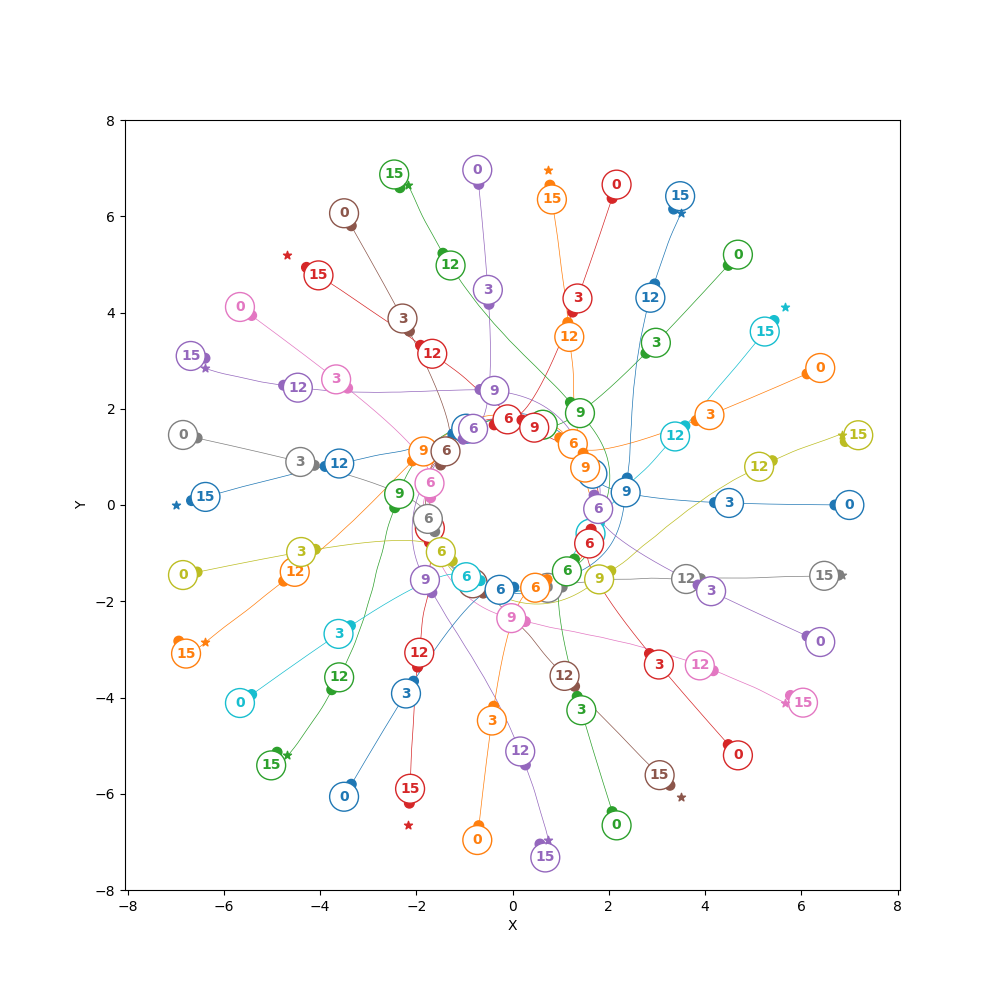
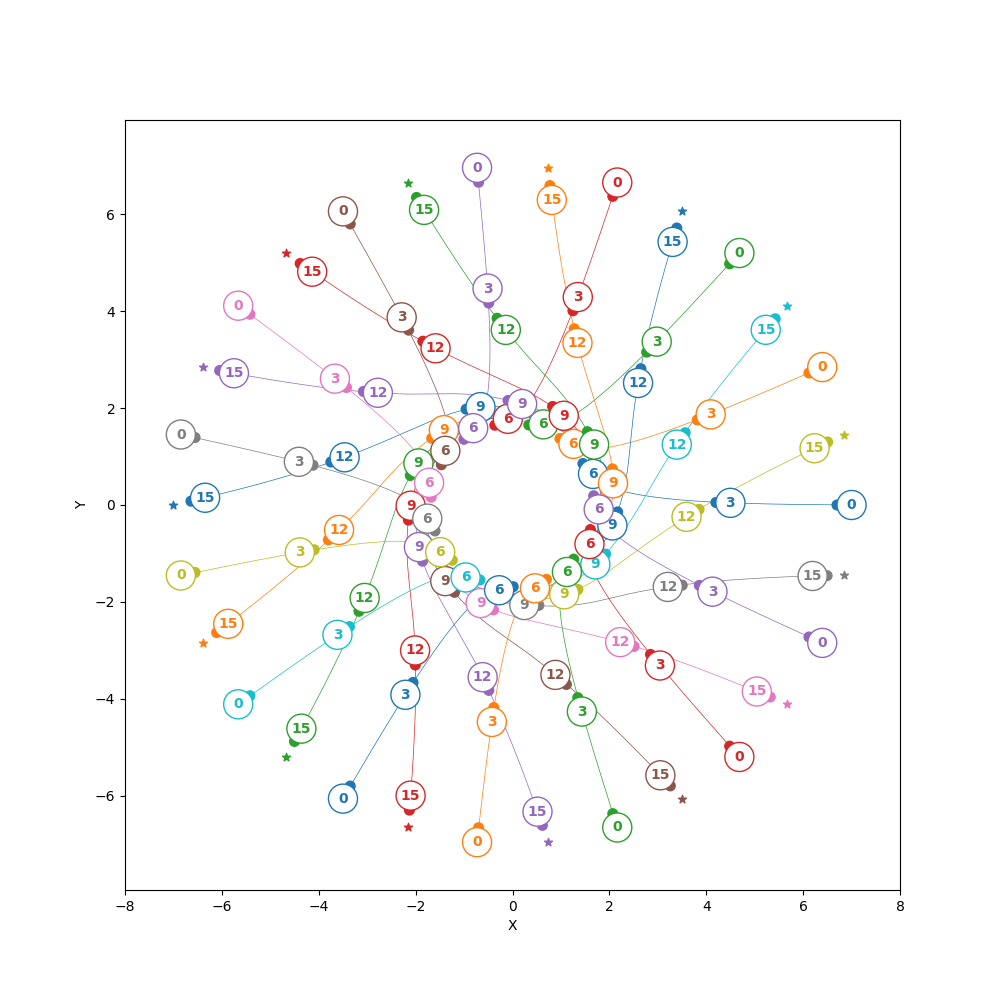
add obstacle filtering (nans) and per-human obstacles management

diff --git a/jhsfm/hsfm.py b/jhsfm/hsfm.py
@@ -34,31 +34,35 @@ def get_linear_velocity(theta:float, body_velocity: jnp.ndarray) -> jnp.ndarray:
     return linear_velocity
 
 @jit
-def compute_edge_closest_point(reference_point:jnp.ndarray, edge:jnp.ndarray, current_closest_point:jnp.ndarray, current_min_distance:float):
+def compute_edge_closest_point(reference_point:jnp.ndarray, edge:jnp.ndarray):
     """
     This function computes the closest point of the edge to the reference point and confronts it with the current closest point and min dist to the obstacle.
-    Finally it overweites the closest point and the min distance to the obstacle in the current ones.
     
     args:
     - reference_point: shape is (2,) in the form (px, py)
     - edge: shape is (2, 2) where each edge includes its two vertices (p1, p2) composed by two coordinates (x, y)
-    - current_closest_point: shape is (2,) in the form (cx, cy)
-    - current_min_distance: min distance to the current closest point
 
     output:
     - closest_points: shape is (2,) in the form (cx, cy)
     - min_distances: min distance to the closest point
     """
-    a = edge[0]
-    b = edge[1]
-    t = (jnp.dot(reference_point - a, b - a)) / (jnp.linalg.norm(b - a) ** 2)
-    t_lb = lax.cond(t>0,lambda x: x,lambda x: 0.,t)
-    t_star = lax.cond(t_lb<1,lambda x: x,lambda x: 1.,t_lb)
-    h = a + t_star * (b - a)
-    dist = jnp.linalg.norm(h - reference_point)
-    closest_point = lax.cond(dist < current_min_distance, lambda x: h, lambda x: x, current_closest_point)
-    min_distance = lax.cond(dist < current_min_distance, lambda x: dist, lambda x: x, current_min_distance)
+    @jit
+    def _not_nan(reference_point:jnp.ndarray, edge:jnp.ndarray):
+        a = edge[0]
+        b = edge[1]
+        t = (jnp.dot(reference_point - a, b - a)) / (jnp.linalg.norm(b - a) ** 2)
+        t_lb = lax.cond(t>0,lambda x: x,lambda x: 0.,t)
+        t_star = lax.cond(t_lb<1,lambda x: x,lambda x: 1.,t_lb)
+        h = a + t_star * (b - a)
+        dist = jnp.linalg.norm(h - reference_point)
+        return h, dist
+    closest_point, min_distance = lax.cond(
+        jnp.any(jnp.isnan(edge)), # In case the edge is a dummy edge (NaN), closest point and min distance should remain the current ones
+        lambda _: (jnp.array([jnp.nan, jnp.nan]), jnp.float32(1_000_000.)),
+        lambda _: _not_nan(reference_point, edge),
+        None)
     return closest_point, min_distance
+vectorized_compute_edge_closest_point = vmap(compute_edge_closest_point, in_axes=(None, 0))
 
 @jit
 def compute_obstacle_closest_point(reference_point:jnp.ndarray, obstacle:jnp.ndarray) -> jnp.ndarray:
@@ -72,10 +76,16 @@ def compute_obstacle_closest_point(reference_point:jnp.ndarray, obstacle:jnp.nda
     output:
     - closest_point: shape is (2,) in the form (cx, cy)
     """
-    closest_point = jnp.zeros((2,))
-    min_distance = jnp.float32(10000.)
-    closest_point, min_distance = lax.fori_loop(0, len(obstacle), lambda i, vals: compute_edge_closest_point(reference_point, obstacle[i], vals[0], vals[1]), (closest_point, min_distance))
-    return closest_point
+    @jit
+    def _not_nan(reference_point:jnp.ndarray, obstacle:jnp.ndarray):
+        closest_points, min_distances = vectorized_compute_edge_closest_point(reference_point, obstacle)
+        return closest_points[jnp.argmin(min_distances)]
+    closest_point = lax.cond(
+        jnp.isnan(obstacle[0,0,0]), # In case the obstacle is a dummy obstacle (NaN), closest point should be nan
+        lambda _: jnp.full((2,), jnp.nan),
+        lambda _: _not_nan(reference_point, obstacle),
+        None)
+    return closest_point 
 vectorized_compute_obstacle_closest_point = vmap(compute_obstacle_closest_point, in_axes=(None, 0))
 
 @jit
@@ -127,14 +137,22 @@ def compute_obstacle_force(human_state:jnp.ndarray, obstacle:jnp.ndarray, parame
     output:
     - obstacle_force: shape is (2,) in the form (fx, fy
     """
-    diff = human_state[:2] - obstacle
-    dist = jnp.linalg.norm(diff)
-    niw = diff / dist
-    tiw = jnp.array([-niw[1], niw[0]])
-    linear_velocity = get_linear_velocity(human_state[4], human_state[2:4])
-    delta_viw = - jnp.dot(linear_velocity, tiw)
-    real_dist = parameters[0] - dist + parameters[18]
-    obstacle_force = lax.cond(real_dist > 0, lambda x: x * (parameters[5] * jnp.exp(real_dist / parameters[7]) + parameters[12] * real_dist) * niw + (-parameters[9] * jnp.exp(real_dist / parameters[11]) - parameters[13] * real_dist) * delta_viw * tiw, lambda x: x * (parameters[5] * jnp.exp(real_dist / parameters[7])) * niw + (-parameters[9] * jnp.exp(real_dist / parameters[11])) * delta_viw * tiw, jnp.ones((2,)))
+    @jit
+    def _not_nan(human_state:jnp.ndarray, obstacle:jnp.ndarray, parameters:jnp.ndarray):
+        diff = human_state[:2] - obstacle
+        dist = jnp.linalg.norm(diff)
+        niw = diff / dist
+        tiw = jnp.array([-niw[1], niw[0]])
+        linear_velocity = get_linear_velocity(human_state[4], human_state[2:4])
+        delta_viw = - jnp.dot(linear_velocity, tiw)
+        real_dist = parameters[0] - dist + parameters[18]
+        obstacle_force = lax.cond(real_dist > 0, lambda x: x * (parameters[5] * jnp.exp(real_dist / parameters[7]) + parameters[12] * real_dist) * niw + (-parameters[9] * jnp.exp(real_dist / parameters[11]) - parameters[13] * real_dist) * delta_viw * tiw, lambda x: x * (parameters[5] * jnp.exp(real_dist / parameters[7])) * niw + (-parameters[9] * jnp.exp(real_dist / parameters[11])) * delta_viw * tiw, jnp.ones((2,)))
+        return obstacle_force
+    obstacle_force = lax.cond(
+        jnp.any(jnp.isnan(obstacle)), # In case the obstacle is a dummy obstacle (NaN), obstacle force should be zero (no real obstacle, just padding)
+        lambda _: jnp.zeros((2,)),
+        lambda _: _not_nan(human_state, obstacle, parameters),
+        None)
     return obstacle_force
 vectorized_compute_obstacle_force = vmap(compute_obstacle_force, in_axes=(None, 0, None))
 
@@ -167,16 +185,16 @@ def single_update(idx:int, humans_state:jnp.ndarray, human_goal:jnp.ndarray, par
         lambda _: jnp.zeros((2,)),
         None)
     # Social force computation
-    social_force = lax.fori_loop(
-        0, 
-        len(humans_state), 
-        lambda j, acc: lax.cond(
-            j != idx, 
-            lambda acc: acc + pairwise_social_force(self_state, humans_state[j], self_parameters, parameters[j]), 
-            lambda acc: acc, 
-            acc), 
-        jnp.zeros((2,)))
-    # social_force = jnp.sum(vectorized_pairwise_social_force(self_state, humans_state, self_parameters, parameters), axis=0)
+    # social_force = lax.fori_loop(
+    #     0, 
+    #     len(humans_state), 
+    #     lambda j, acc: lax.cond(
+    #         j != idx, 
+    #         lambda acc: acc + pairwise_social_force(self_state, humans_state[j], self_parameters, parameters[j]), 
+    #         lambda acc: acc, 
+    #         acc), 
+    #     jnp.zeros((2,)))
+    social_force = jnp.sum(vectorized_pairwise_social_force(self_state, humans_state, self_parameters, parameters), axis=0)
     # Obstacle force computation
     closest_points = vectorized_compute_obstacle_closest_point(self_state[:2], obstacles)
     obstacle_force = jnp.sum(vectorized_compute_obstacle_force(self_state, closest_points, self_parameters), axis=0) / len(obstacles)
@@ -219,7 +237,7 @@ def single_update(idx:int, humans_state:jnp.ndarray, human_goal:jnp.ndarray, par
     # debug.print("jax.debug.print(global_force) -> {x}", x=global_force)
     # debug.print("jax.debug.print(updated_human_state) -> {x}", x=updated_human_state)
     return updated_human_state
-vectorized_single_update = vmap(single_update, in_axes=(0, None, 0, None, None, None))
+vectorized_single_update = vmap(single_update, in_axes=(0, None, 0, None, 0, None))
 
 @jit
 def step(humans_state:jnp.ndarray, humans_goal:jnp.ndarray, parameters:jnp.ndarray, obstacles:jnp.ndarray, dt:float) -> jnp.ndarray:
@@ -231,7 +249,7 @@ def step(humans_state:jnp.ndarray, humans_goal:jnp.ndarray, parameters:jnp.ndarr
     - humans_state: shape is (n_humans, 6) where each row is (px, py, bvx, bvy, theta, omega)
     - humans_goal: shape is (n_humans, 2) where each row is (gx, gy)
     - parameters: shape is (n_humans, 19) where each row is (radius, mass, v_max, tau, Ai, Aw, Bi, Bw, Ci, Cw, Di, Dw, k1, k2, ko, kd, alpha, k_lambda, safety_space)
-    - obstacles: shape is (n_obstacles, n_edges, 2, 2) where each obs contains one of its edges (min. 3 edges) and each edge includes its two vertices (p1, p2) composed by two coordinates (x, y)
+    - obstacles: shape is (n_humans, n_obstacles, n_edges, 2, 2) where each human can be assigned a different set of obstacles. Each obs contains one of its edges (min. 3 edges) and each edge includes its two vertices (p1, p2) composed by two coordinates (x, y)
     - dt: sampling time for the update
     
     output:

diff --git a/example2.py b/example2.py
@@ -17,9 +17,17 @@ humans_state = np.array([[7.,0.,0.,0.,jnp.pi,0.],
                          [6.8,-0.8,0.,0.,jnp.pi,0.],
                          [6.5,1.5,0.,0.,jnp.pi,0.],
                          [6.5,-1.5,0.,0.,jnp.pi,0.]])
-static_obstacles = jnp.array([[[[-0.1,0.5],[0.1,0.5]],[[0.1,0.5],[0.1,3]],[[0.1,3],[-0.1,3]],[[-0.1,3],[-0.1,0.5]]],
-                              [[[-0.1,-0.5],[0.1,-0.5]],[[0.1,-0.5],[0.1,-3]],[[0.1,-3],[-0.1,-3]],[[-0.1,-3],[-0.1,-0.5]]]])
-
+# Static obstacles - example adding some padding edges as dimensions should be equal for the static obstacles array but obstacles may have different number of edges
+static_obstacles = jnp.array([
+    [[[-0.1,0.5],[0.1,0.5]],[[0.1,0.5],[0.1,3]],[[0.1,3],[-0.1,3]],[[-0.1,3],[-0.1,0.5]],[[jnp.nan,jnp.nan],[jnp.nan, jnp.nan]]],
+    [[[-0.1,-0.5],[0.1,-0.5]],[[0.1,-0.5],[0.1,-3]],[[0.1,-3],[-0.1,-3]],[[-0.1,-3],[-0.1,-0.5]],[[jnp.nan,jnp.nan],[jnp.nan, jnp.nan]]],
+    [[[jnp.nan, jnp.nan],[jnp.nan,jnp.nan]],[[jnp.nan,jnp.nan],[jnp.nan,jnp.nan]],[[jnp.nan,jnp.nan],[jnp.nan,jnp.nan]],[[jnp.nan,jnp.nan],[jnp.nan, jnp.nan]],[[jnp.nan,jnp.nan],[jnp.nan, jnp.nan]]],
+])
+# Create a static_obstacles array for each human
+static_obstacles_per_human = jnp.stack([static_obstacles for _ in range(len(humans_state))])
+# Make a human traverse obstacles (all obstacles for him are set to Nan)
+# human_that_traverses_obstacle = 0
+# static_obstacles_per_human = static_obstacles_per_human.at[human_that_traverses_obstacle,:].set(jnp.nan)
 
 # Initial conditions
 humans_goal = np.zeros((len(humans_state), 2))
@@ -32,7 +40,7 @@ humans_parameters = get_standard_humans_parameters(len(humans_state))
 humans_goal = jnp.array(humans_goal)
 
 # Dummy step - Warm-up (we first compile the JIT functions to avoid counting compilation time later)
-_ = step(humans_state, humans_goal, humans_parameters, static_obstacles, dt)
+_ = step(humans_state, humans_goal, humans_parameters, static_obstacles_per_human, dt)
 
 # Simulation 
 steps = int(end_time/dt)
@@ -42,7 +50,7 @@ start_time = time.time()
 all_states = np.empty((steps+1, len(humans_state), 6), np.float32)
 all_states[0] = humans_state
 for i in range(steps):
-    humans_state = step(humans_state, humans_goal, humans_parameters, static_obstacles, dt)
+    humans_state = step(humans_state, humans_goal, humans_parameters, static_obstacles_per_human, dt)
     all_states[i+1] = humans_state
 end_time = time.time()
 print("Simulation done! Computation time: ", end_time - start_time)

diff --git a/example3.py b/example3.py
@@ -14,6 +14,7 @@ traffic_length = 14
 traffic_height = 3
 dt = 0.01
 end_time = 5
+np.random.seed(0) # For reproducibility
 
 # Initial conditions
 humans_state = np.zeros((n_humans, 6))
@@ -49,9 +50,13 @@ humans_goal = jnp.array(humans_goal)
 # Obstacles
 static_obstacles = jnp.array([[[[-traffic_length/2-3,-traffic_height/2-1],[-traffic_length/2-3,-traffic_height/2-0.5]],[[-traffic_length/2-3,-traffic_height/2-0.5],[traffic_length/2,-traffic_height/2-0.5]],[[traffic_length/2,-traffic_height/2-0.5],[traffic_length/2,-traffic_height/2-1]],[[traffic_length/2,-traffic_height/2-1],[-traffic_length/2-3,-traffic_height/2-1]]],
                               [[[-traffic_length/2-3,traffic_height/2+1],[-traffic_length/2-3,traffic_height/2+0.5]],[[-traffic_length/2-3,traffic_height/2+0.5],[traffic_length/2,traffic_height/2+0.5]],[[traffic_length/2,traffic_height/2+0.5],[traffic_length/2,traffic_height/2+1]],[[traffic_length/2,traffic_height/2+1],[-traffic_length/2-3,traffic_height/2+1]]]])
+static_obstacles_per_human = jnp.stack([static_obstacles for _ in range(len(humans_state))])
+# Make a human traverse obstacles (all obstacles for him are set to Nan)
+# human_that_traverses_obstacle = 0
+# static_obstacles_per_human = static_obstacles_per_human.at[human_that_traverses_obstacle,:].set(jnp.nan)
 
 # Dummy step - Warm-up (we first compile the JIT functions to avoid counting compilation time later)
-_ = step(humans_state, humans_goal, humans_parameters, static_obstacles, dt)
+_ = step(humans_state, humans_goal, humans_parameters, static_obstacles_per_human, dt)
 
 # Simulation 
 steps = int(end_time/dt)
@@ -61,7 +66,7 @@ start_time = time.time()
 all_states = np.empty((steps+1, n_humans, 6), np.float32)
 all_states[0] = humans_state
 for i in range(steps):
-    humans_state = step(humans_state, humans_goal, humans_parameters, static_obstacles, dt)
+    humans_state = step(humans_state, humans_goal, humans_parameters, static_obstacles_per_human, dt)
     all_states[i+1] = humans_state
 end_time = time.time()
 print("Simulation done! Computation time: ", end_time - start_time)

diff --git a/example5.py b/example5.py
@@ -13,20 +13,21 @@ from jhsfm.utils import *
 traffic_length = 14
 traffic_height = 3
 dt = 0.01
-end_time = 25
+end_time = 5
 episode = 0
 
 # Initial conditions
 with open(os.path.join(os.path.dirname(__file__),"custom_configurations/parallel_traffic_15_humans.pkl"), 'rb') as f:
     initial_configuration = pickle.load(f)
-humans_state = initial_configuration[episode]["full_state"][:-1]
+humans_state = initial_configuration[episode]["full_state"]
 n_humans = humans_state.shape[0]
 humans_goal = initial_configuration[episode]["humans_goal"]
 humans_parameters = get_standard_humans_parameters(n_humans)
 static_obstacles = initial_configuration[episode]["static_obstacles"]
+static_obstacles_per_human = jnp.stack([static_obstacles for _ in range(len(humans_state))])
 
 # Dummy step - Warm-up (we first compile the JIT functions to avoid counting compilation time later)
-_ = step(humans_state, humans_goal, humans_parameters, static_obstacles, dt)
+_ = step(humans_state, humans_goal, humans_parameters, static_obstacles_per_human, dt)
 
 # Post-update
 @jit
@@ -60,7 +61,7 @@ start_time = time.time()
 all_states = np.empty((steps+1, n_humans, 6), np.float32)
 all_states[0] = humans_state
 for i in range(steps):
-    humans_state = step(humans_state, humans_goal, humans_parameters, static_obstacles, dt)
+    humans_state = step(humans_state, humans_goal, humans_parameters, static_obstacles_per_human, dt)
     humans_goal, humans_parameters, humans_state = _update_traffic_scenarios(humans_goal, humans_parameters, humans_state)
     all_states[i+1] = humans_state
 end_time = time.time()

diff --git a/example1.py b/example1.py
@@ -33,10 +33,11 @@ humans_state = jnp.array(humans_state)
 humans_parameters = get_standard_humans_parameters(n_humans)
 humans_goal = jnp.array(humans_goal)
 # Obstacles
-static_obstacles = jnp.array([[[[1000.,1000.],[1000.,1000.]]]]) # dummy obstacles
+static_obstacles = jnp.array([[[[jnp.nan,jnp.nan],[jnp.nan,jnp.nan]]]]) # dummy obstacles
+static_obstacles_per_human = jnp.stack([static_obstacles for _ in range(len(humans_state))])
 
 # Dummy step - Warm-up (we first compile the JIT functions to avoid counting compilation time later)
-_ = step(humans_state, humans_goal, humans_parameters, static_obstacles, dt)
+_ = step(humans_state, humans_goal, humans_parameters, static_obstacles_per_human, dt)
 
 # Simulation 
 steps = int(end_time/dt)
@@ -46,7 +47,7 @@ start_time = time.time()
 all_states = np.empty((steps+1, n_humans, 6), np.float32)
 all_states[0] = humans_state
 for i in range(steps):
-    humans_state = step(humans_state, humans_goal, humans_parameters, static_obstacles, dt)
+    humans_state = step(humans_state, humans_goal, humans_parameters, static_obstacles_per_human, dt)
     all_states[i+1] = humans_state
 end_time = time.time()
 print("Simulation done! Computation time: ", end_time - start_time)

diff --git a/example4.py b/example4.py
@@ -22,9 +22,10 @@ n_humans = humans_state.shape[0]
 humans_goal = initial_configuration[0]["humans_goal"]
 humans_parameters = get_standard_humans_parameters(n_humans)
 static_obstacles = initial_configuration[0]["static_obstacles"]
+static_obstacles_per_human = jnp.stack([static_obstacles for _ in range(len(humans_state))])
 
 # Dummy step - Warm-up (we first compile the JIT functions to avoid counting compilation time later)
-_ = step(humans_state, humans_goal, humans_parameters, static_obstacles, dt)
+_ = step(humans_state, humans_goal, humans_parameters, static_obstacles_per_human, dt)
 
 # Simulation 
 steps = int(end_time/dt)
@@ -34,7 +35,7 @@ start_time = time.time()
 all_states = np.empty((steps+1, n_humans, 6), np.float32)
 all_states[0] = humans_state
 for i in range(steps):
-    humans_state = step(humans_state, humans_goal, humans_parameters, static_obstacles, dt)
+    humans_state = step(humans_state, humans_goal, humans_parameters, static_obstacles_per_human, dt)
     all_states[i+1] = humans_state
 end_time = time.time()
 print("Simulation done! Computation time: ", end_time - start_time)

diff --git a/jhsfm/utils.py b/jhsfm/utils.py
@@ -2,6 +2,8 @@ import jax.numpy as jnp
 from jax import jit, vmap, lax, debug, random
 
 # TODO: Add generate random humans parameters function
+# TODO: Add grill cell decomposition for "per human" obstacles filtering
+# TODO: Add function to generate animation of simulation
 
 def get_standard_humans_parameters(n_humans:int):
     """
